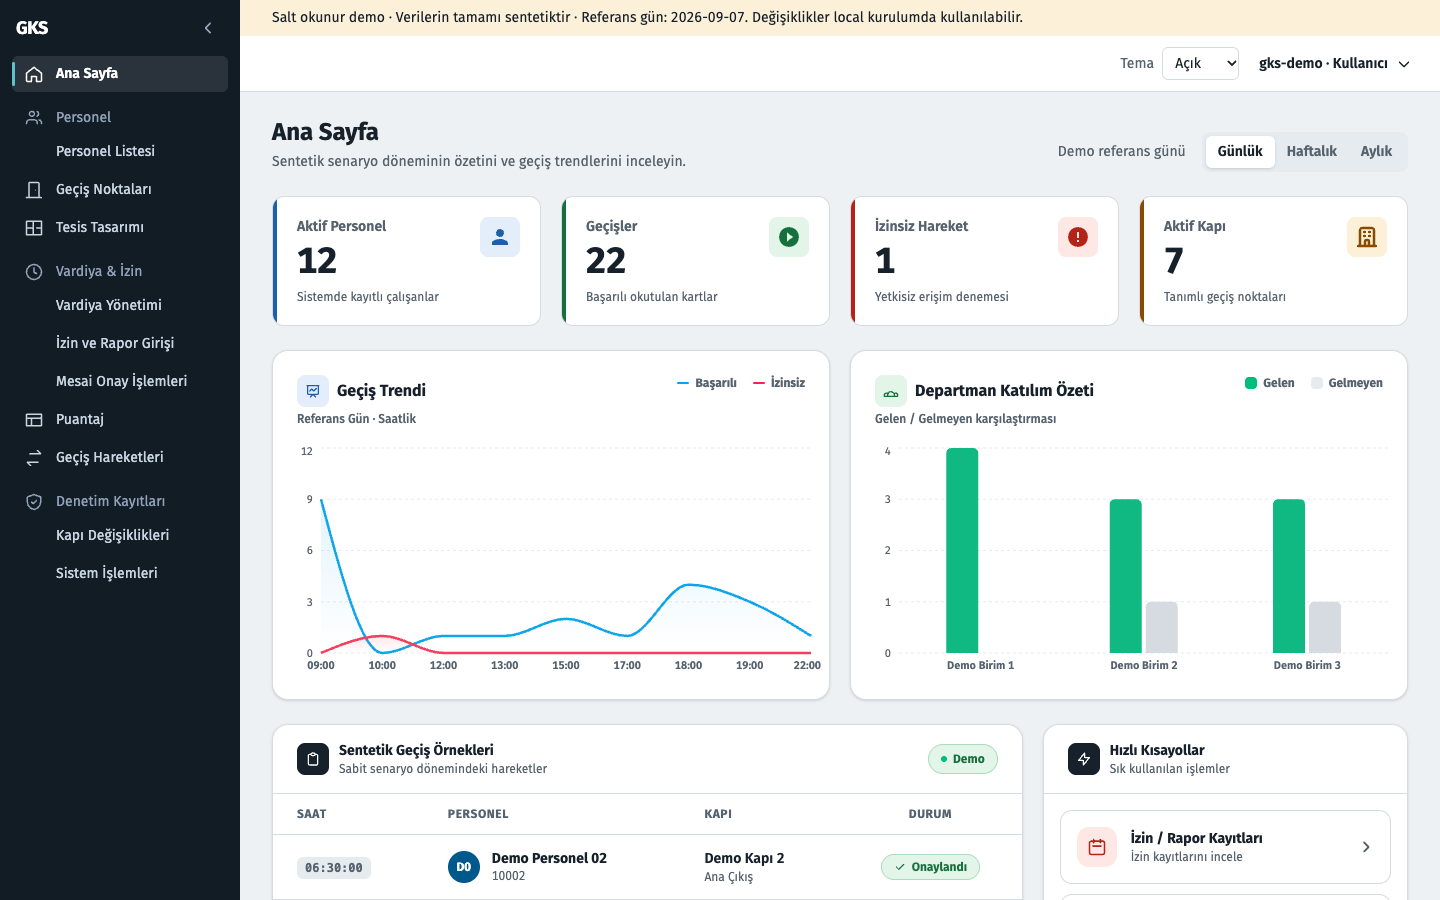
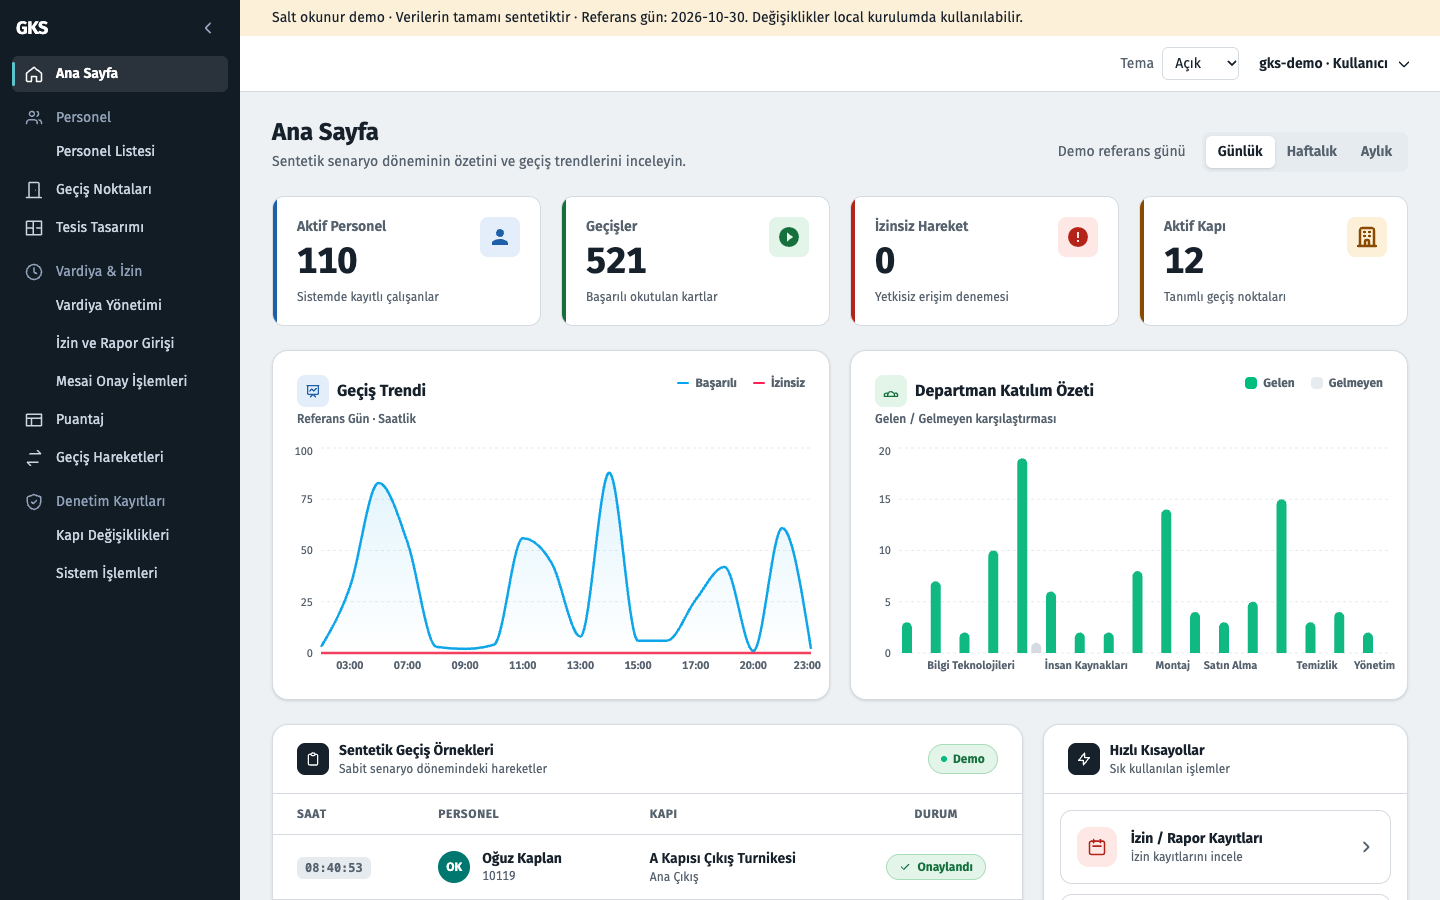
README görselleri fabrika demosundan; canlı simülasyonda yetkiye göre alan
Dört görsel bir yıllık fabrika demosundan (referans gün 30 Ekim 2026)
yeniden çekildi.

Canlı simülasyon kişilere çalışma alanını sırayla dağıtıyordu; fabrika
demosunda üretim çalışanlarının yarısı yetkisi olmayan ofis katına ve
mola terasına yürüyüp reddediliyordu (okutmaların ~%32'si). Kişi artık
kendi kapılarıyla ulaşabildiği çalışma alanına gider, giremediği mola
alanına gitmez; hiçbir alana ulaşamayan kişi eskisi gibi sırayla alan alır.

diff --git a/gks_frontend/src/utils/simEngine.js b/gks_frontend/src/utils/simEngine.js
@@ -116,12 +116,22 @@ export function createSimulation(plan, dayPlan, { misread = 0, random = Math.ran
   const planned = dayPlan.kisiler.filter(person => person.olaylar.length);
   const times = planned.flatMap(person => person.olaylar.map(event => toMs(event.zaman)));
   const day = toMs(dayPlan.tarih + 'T00:00:00');
-  const people = planned.map((person, index) => ({
-    id: person.id, name: person.ad_soyad, card: person.kart, late: person.gec, index,
-    permitted: new Set(person.kapilar), home: homes[index % homes.length]?.ref ?? null,
-    node: OUTSIDE, floor: null, x: -100, y: -100, legs: [], next: 0,
-    events: person.olaylar.map(event => ({ type: event.tur, at: toMs(event.zaman) })),
-  }));
+  const breakArea = plan.areas.find(area => area.type === 'Mola')?.ref;
+  const people = planned.map((person, index) => {
+    const permitted = new Set(person.kapilar);
+    const reachable = ref => !!route(plan, OUTSIDE, ref, door => permitted.has(door.id))?.every(leg => !leg.door || permitted.has(leg.door.id));
+    // People work where their own doors lead and skip a break area they may not
+    // enter; someone whose doors reach no work area still gets one in turn.
+    const own = homes.filter(area => reachable(area.ref));
+    const restsOutside = breakArea != null && !reachable(breakArea);
+    return {
+      id: person.id, name: person.ad_soyad, card: person.kart, late: person.gec, index,
+      permitted, home: (own.length ? own : homes)[index % (own.length || homes.length)]?.ref ?? null,
+      node: OUTSIDE, floor: null, x: -100, y: -100, legs: [], next: 0,
+      events: person.olaylar.filter(event => !restsOutside || !['mola', 'moladan_don'].includes(event.tur))
+        .map(event => ({ type: event.tur, at: toMs(event.zaman) })),
+    };
+  });
   return {
     plan, day, misread, random, people, nextRead: 1,
     clock: times.length ? Math.min(...times) - 30 * MINUTE : day + 8 * 60 * MINUTE,

diff --git a/gks_frontend/test/simEngine.test.js b/gks_frontend/test/simEngine.test.js
@@ -140,3 +140,18 @@ test('people take the stairs between floors, without a read on the stairs', () =
   assert.deepEqual(sim.feed.map(entry => entry.doorId).reverse(), [1, 2, 3]);
   assert.deepEqual([sim.people[0].node, sim.people[0].floor], ['ust', 'u']);
 });
+
+test('people work where their own doors lead and skip a break area they may not enter', () => {
+  const factory = {
+    areas: [...plan.areas, area('uretim', 'Üretim', 40, 440, 200, 200)],
+    doors: [...plan.doors, door(8, 'İç Geçiş', 140, 440, 'lobi', 'uretim')],
+  };
+  const events = [{ tur: 'giris', zaman: '2026-09-08T09:00:00' }, { tur: 'mola', zaman: '2026-09-08T10:30:00' }, { tur: 'moladan_don', zaman: '2026-09-08T10:45:00' }];
+  const person = (id, kapilar) => ({ id, ad_soyad: `Kişi ${id}`, kart: `3000000001${id}`, kapilar, gec: false, durum: 'Planlı', olaylar: events });
+  // Index order alone would send the second worker to the office.
+  const sim = createSimulation(factory, { tarih: '2026-09-08', kisiler: [person(1, [1, 2, 8]), person(2, [1, 2, 8]), person(3, all)] });
+  assert.deepEqual(sim.people.map(item => item.home), ['uretim', 'uretim', 'ofis']);
+  assert.deepEqual(sim.people.map(item => item.events.length), [1, 1, 3]);
+  while (!finished(sim)) step(sim, 10 * 60000);
+  assert.ok(sim.feed.every(entry => entry.ok), 'nobody walks into a door they may not use');
+});
